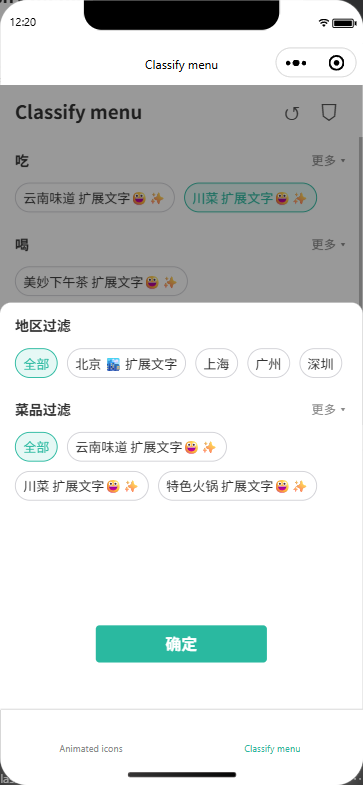
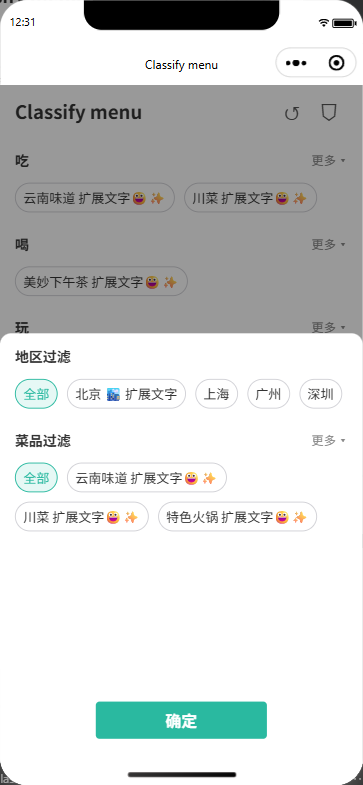
feat: CYLTabBarController's Mini Program tab bar as the example's shell
The Mini Program example now runs inside cyl-tab-bar of CYLTabBarController's
cyl-tabbar-miniprogram (pinned at 460ed89f, the React Native example's pin): a
custom tab bar with Tags and Classify and the raised Post button with its own
page. scripts/fetch-cyltabbar.js installs the component (git-ignored), CI runs it,
and a test reads the configuration through CYLTabBarController's own reader. The
filter sheet hides the bar (cyl_setTabBarHidden) so 确定 stays reachable.
Verified in WeChat DevTools with CYLTabBarController's AppID (local only).

Claude-Session: https://claude.ai/code/session_017y7XP1PdARBM5KQfkatJYT

diff --git a/CrossPlatform/wechat-miniprogram/scripts/fetch-cyltabbar.js b/CrossPlatform/wechat-miniprogram/scripts/fetch-cyltabbar.js
@@ -1,0 +1,97 @@
+#!/usr/bin/env node
+/**
+ * Installs CYLTabBarController's Mini Program tab bar (`cyl-tabbar-miniprogram`, CYLTabBarController's
+ * `CrossPlatform/wechat-miniprogram-cyltabbar`, not on npm) for the example's custom tab bar, as the React Native
+ * example installs `react-native-cyltabbar` (`react-native/react-native-cyl-tag-list/scripts/fetch-cyltabbar.sh`):
+ *
+ *   1. checks out CYLTabBarController at COMMIT into .deps/CYLTabBarController (git-ignored), only the component's folder;
+ *   2. copies the package's mini program folder (its "miniprogram" field: src/) to
+ *      miniprogram/cyl_components/cyl-tabbar-miniprogram/ (git-ignored), which custom-tab-bar/index.json names.
+ *
+ * The component is copied outside miniprogram_npm because WeChat DevTools' "Build npm" rewrites that folder.
+ *
+ *   node scripts/fetch-cyltabbar.js           install
+ *   node scripts/fetch-cyltabbar.js --check   exit 1 when the installed copy differs from the pinned commit
+ */
+const { execFileSync } = require('child_process');
+const fs = require('fs');
+const path = require('path');
+
+// CYL_TAB_BAR: the same commit as the React Native example (fetch-cyltabbar.sh, example/ios/Podfile).
+const COMMIT = '460ed89f192db37d5b347cf72b5ee63ecdc11854';
+const REPOSITORY = 'https://github.com/ChenYilong/CYLTabBarController.git';
+const PACKAGE = 'CrossPlatform/wechat-miniprogram-cyltabbar';
+const ROOT = path.resolve(__dirname, '..');
+const CHECKOUT = path.join(ROOT, '.deps', 'CYLTabBarController');
+const TARGET = path.join(ROOT, 'miniprogram', 'cyl_components', 'cyl-tabbar-miniprogram');
+
+function git(...args) {
+  return execFileSync('git', ['-C', CHECKOUT, ...args], { encoding: 'utf8', stdio: ['ignore', 'pipe', 'inherit'] }).trim();
+}
+
+function checkout() {
+  if (!fs.existsSync(path.join(CHECKOUT, '.git'))) {
+    fs.mkdirSync(path.dirname(CHECKOUT), { recursive: true });
+    execFileSync('git', ['clone', '--filter=blob:none', '--no-checkout', '--sparse', REPOSITORY, CHECKOUT], { stdio: 'inherit' });
+  }
+  git('sparse-checkout', 'set', PACKAGE);
+  try {
+    git('cat-file', '-e', `${COMMIT}^{commit}`);
+  } catch (error) {
+    git('fetch', '-q', 'origin');
+  }
+  git('-c', 'advice.detachedHead=false', 'checkout', '-q', COMMIT);
+}
+
+function files(folder, prefix = '') {
+  return fs.readdirSync(path.join(folder, prefix), { withFileTypes: true })
+    .filter((entry) => !entry.name.startsWith('._') && entry.name !== '.DS_Store')
+    .flatMap((entry) => {
+      const relative = path.join(prefix, entry.name);
+      return entry.isDirectory() ? files(folder, relative) : [relative];
+    })
+    .sort();
+}
+
+function sourceFolder() {
+  const packageFolder = path.join(CHECKOUT, PACKAGE);
+  const manifest = JSON.parse(fs.readFileSync(path.join(packageFolder, 'package.json'), 'utf8'));
+  return path.join(packageFolder, manifest.miniprogram || 'miniprogram_dist');
+}
+
+function differences(source) {
+  const expected = files(source);
+  const actual = fs.existsSync(TARGET) ? files(TARGET) : [];
+  const stale = expected.filter((file) => !actual.includes(file)
+    || !fs.readFileSync(path.join(source, file)).equals(fs.readFileSync(path.join(TARGET, file))));
+  const extra = actual.filter((file) => !expected.includes(file) && file !== 'COMMIT');
+  return stale.concat(extra);
+}
+
+function main() {
+  const check = process.argv.includes('--check');
+  if (check) {
+    if (!fs.existsSync(path.join(CHECKOUT, '.git')) || git('rev-parse', 'HEAD') !== COMMIT) {
+      console.error(`cyl-tabbar-miniprogram is not checked out at ${COMMIT.slice(0, 8)}: run node scripts/fetch-cyltabbar.js`);
+      process.exit(1);
+    }
+    const stale = differences(sourceFolder());
+    if (stale.length) {
+      console.error(`Out of date: ${stale.join(', ')} (run node scripts/fetch-cyltabbar.js)`);
+      process.exit(1);
+    }
+    console.log(`OK: cyl-tabbar-miniprogram at ${COMMIT.slice(0, 8)}`);
+    return;
+  }
+  checkout();
+  const source = sourceFolder();
+  fs.rmSync(TARGET, { recursive: true, force: true });
+  files(source).forEach((file) => {
+    fs.mkdirSync(path.dirname(path.join(TARGET, file)), { recursive: true });
+    fs.copyFileSync(path.join(source, file), path.join(TARGET, file));
+  });
+  fs.writeFileSync(path.join(TARGET, 'COMMIT'), `${COMMIT}\n`);
+  console.log(`cyl-tabbar-miniprogram at ${git('rev-parse', '--short', 'HEAD')} -> ${path.relative(ROOT, TARGET)}`);
+}
+
+main();

diff --git a/CrossPlatform/wechat-miniprogram/test/tab-bar-configuration.test.js b/CrossPlatform/wechat-miniprogram/test/tab-bar-configuration.test.js
@@ -1,0 +1,45 @@
+// The example's tab bar configuration, read by CYLTabBarController's own configuration reader when it is installed
+// (node scripts/fetch-cyltabbar.js); the page mapping always (node --test).
+const test = require('node:test');
+const assert = require('node:assert/strict');
+const fs = require('fs');
+const path = require('path');
+const { CONFIGURATION, pagePath, identifierForRoute } = require('../miniprogram/custom-tab-bar/configuration.js');
+const app = require('../miniprogram/app.json');
+
+test('every tab and the plus button have a page in the tab bar list of app.json', () => {
+  const list = app.tabBar.list.map((entry) => `/${entry.pagePath}`);
+  const identifiers = CONFIGURATION.CYLTabBarControllerTabBarItemsAttributes.map((item) => item.CYLTabBarItemIdentifier)
+    .concat(CONFIGURATION.CYLTabBarControllerPlusButton.CYLTabBarItemPageIdentifier);
+  assert.deepEqual(identifiers, ['tags', 'classify', 'post']);
+  identifiers.forEach((identifier) => assert.ok(list.includes(pagePath(identifier)), identifier));
+  assert.equal(app.tabBar.custom, true);
+});
+
+test('a page route maps back to its tab', () => {
+  assert.equal(identifierForRoute('pages/classify/classify'), 'classify');
+  assert.equal(identifierForRoute('/pages/post/post'), 'post');
+  assert.equal(identifierForRoute('other'), '');
+});
+
+test('every image of the configuration is in the package', () => {
+  const attributes = CONFIGURATION.CYLTabBarControllerTabBarItemsAttributes.concat(CONFIGURATION.CYLTabBarControllerPlusButton);
+  attributes.forEach((item) => [item.CYLTabBarItemImage, item.CYLTabBarItemSelectedImage].forEach((image) => {
+    assert.ok(fs.existsSync(path.join(__dirname, '..', 'miniprogram', 'images', image)), image);
+  }));
+});
+
+const reader = path.join(__dirname, '..', 'miniprogram', 'cyl_components', 'cyl-tabbar-miniprogram', 'cyl-tab-bar',
+  'cyl_configuration.js');
+
+test('CYLTabBarController\'s reader shows Tags, the raised Post button, then Classify', { skip: !fs.existsSync(reader) && 'run node scripts/fetch-cyltabbar.js' }, () => {
+  const cyl = require(reader);
+  const read = cyl.cylReadConfiguration || cyl.cylTabBarModel || cyl.cylModel;
+  assert.equal(typeof read, 'function', `exports: ${Object.keys(cyl).join(', ')}`);
+  const model = read(CONFIGURATION, { imageBasePath: '/images' });
+  assert.deepEqual(model.items.map((item) => item.identifier), ['tags', 'classify']);
+  assert.equal(model.items[0].image, '/images/tab/tag.png');
+  assert.ok(model.plusButton, 'plus button');
+  assert.equal(model.plusButton.identifier, 'post');
+  assert.equal(model.plusButton.hasPage, true);
+});

diff --git a/CrossPlatform/wechat-miniprogram/miniprogram/custom-tab-bar/configuration.js b/CrossPlatform/wechat-miniprogram/miniprogram/custom-tab-bar/configuration.js
@@ -1,0 +1,57 @@
+/**
+ * The tab bar of the example, in CYLTabBarController's configuration keys (its docs/Configuration-File.md): the tabs
+ * Tags and Classify and the raised Post button with a page of its own between them, as in the React Native example
+ * (`example/src/App.tsx`: CYLTabBarController's CYLPlusButtonSubclass, centerYOffset -14). Images are relative to
+ * /images (the `image-base-path` of custom-tab-bar/index.wxml); a Mini Program has no SF Symbols.
+ */
+const ITEMS = [
+  {
+    CYLTabBarItemTitle: 'Tags',
+    CYLTabBarItemImage: 'tab/tag.png',
+    CYLTabBarItemSelectedImage: 'tab/tag_selected.png',
+    CYLTabBarItemIdentifier: 'tags',
+  },
+  {
+    CYLTabBarItemTitle: 'Classify',
+    CYLTabBarItemImage: 'tab/grid.png',
+    CYLTabBarItemSelectedImage: 'tab/grid_selected.png',
+    CYLTabBarItemIdentifier: 'classify',
+  },
+];
+
+const PLUS_BUTTON = {
+  CYLTabBarItemTitle: 'Post',
+  CYLTabBarItemImage: 'tab/post_normal.png',
+  CYLTabBarItemSelectedImage: 'tab/post_highlight.png',
+  CYLTabBarItemIdentifier: 'post',
+  CYLTabBarItemPageIdentifier: 'post',
+  CYLPlusButtonIndexInTabBar: 1,
+  CYLPlusButtonSize: '{55, 80}',
+  CYLPlusButtonImageSize: '{55, 55}',
+  CYLPlusButtonCenterYOffset: -14,
+  CYLPlusButtonAlignsTitle: true,
+  CYLPlusButtonShowsSelection: true,
+};
+
+const CONFIGURATION = {
+  CYLTabBarControllerContext: 'CYLTagListMiniProgram',
+  CYLTabBarControllerThemeIdentifier: 'light',
+  CYLTabBarControllerThemes: {
+    light: { CYLTabBarItemSelectedTitleColor: '#2AB9A0', CYLTabBarItemTitleColor: '#8E8E93' },
+  },
+  CYLTabBarControllerTabBarItemsAttributes: ITEMS,
+  CYLTabBarControllerPlusButton: PLUS_BUTTON,
+};
+
+/** The page of a tab or of the plus button: pages/<identifier>/<identifier>. */
+function pagePath(identifier) {
+  return `/pages/${identifier}/${identifier}`;
+}
+
+/** The identifier of a page route ("pages/classify/classify" -> "classify"). */
+function identifierForRoute(route) {
+  const match = /^\/?pages\/([^/]+)\//.exec(route || '');
+  return match ? match[1] : '';
+}
+
+module.exports = { CONFIGURATION, pagePath, identifierForRoute };

diff --git a/CrossPlatform/wechat-miniprogram/miniprogram/custom-tab-bar/index.js b/CrossPlatform/wechat-miniprogram/miniprogram/custom-tab-bar/index.js
@@ -1,0 +1,33 @@
+/**
+ * The example's custom tab bar (app.json "tabBar": {"custom": true}): CYLTabBarController's `cyl-tab-bar` component
+ * (installed by scripts/fetch-cyltabbar.js), as the iOS, Flutter and React Native examples use CYLTabBarController as
+ * their shell. It switches pages on `select` (the plus button has a page, so it sends `select` too); each tab page
+ * calls `syncWithRoute` in onShow so the selection follows the page.
+ */
+const { CONFIGURATION, pagePath, identifierForRoute } = require('./configuration.js');
+
+Component({
+  data: {
+    configuration: CONFIGURATION,
+    selectedIdentifier: 'tags',
+  },
+
+  methods: {
+    onSelect(event) {
+      const { pageIdentifier, identifier } = event.detail;
+      wx.switchTab({ url: pagePath(pageIdentifier || identifier) });
+    },
+
+    /** Hides or shows the bar (CYLTabBarController's `cyl_setTabBarHidden`), e.g. under a sheet. */
+    setHidden(hidden) {
+      const tabBar = this.selectComponent('#cyl-tab-bar');
+      if (tabBar) tabBar.cyl_setTabBarHidden(Boolean(hidden));
+    },
+
+    /** Selects the tab of the page shown (called from the pages' onShow). */
+    syncWithRoute(route) {
+      const identifier = identifierForRoute(route);
+      if (identifier && identifier !== this.data.selectedIdentifier) this.setData({ selectedIdentifier: identifier });
+    },
+  },
+});

diff --git a/CrossPlatform/wechat-miniprogram/miniprogram/pages/classify/classify.js b/CrossPlatform/wechat-miniprogram/miniprogram/pages/classify/classify.js
@@ -20,6 +20,11 @@ Page({
     filtered: false,
   },
 
+  onShow() {
+    // The custom tab bar (CYLTabBarController's cyl-tab-bar) selects the tab of this page.
+    if (typeof this.getTabBar === 'function' && this.getTabBar()) this.getTabBar().syncWithRoute(this.route);
+  },
+
   onLoad(options) {
     this.categories = db.categories();
     this.tags = db.tags();
@@ -61,10 +66,17 @@ Page({
       filterVisible: true,
       filterConfiguration: state.filterConfiguration(this.tags, this.filterItems),
     });
+    this.setTabBarHidden(true);
   },
 
   closeFilter() {
     this.setData({ filterVisible: false });
+    this.setTabBarHidden(false);
+  },
+
+  /** The sheet covers the tab bar's area, so the bar hides while it is open (its 确定 stays reachable). */
+  setTabBarHidden(hidden) {
+    if (typeof this.getTabBar === 'function' && this.getTabBar()) this.getTabBar().setHidden(hidden);
   },
 
   onFilterChange(event) {
@@ -76,6 +88,7 @@ Page({
     this.filterItems = this.pendingFilter;
     selections.save(selections.FILTER_SCENARIO, this.filterItems);
     this.setData({ filterVisible: false });
+    this.setTabBarHidden(false);
     this.runQuery();
   },
 

diff --git a/CrossPlatform/wechat-miniprogram/miniprogram/pages/tags/tags.js b/CrossPlatform/wechat-miniprogram/miniprogram/pages/tags/tags.js
@@ -64,6 +64,11 @@ Page({
     lastTap: '',
   },
 
+  onShow() {
+    // The custom tab bar (CYLTabBarController's cyl-tab-bar) selects the tab of this page.
+    if (typeof this.getTabBar === 'function' && this.getTabBar()) this.getTabBar().syncWithRoute(this.route);
+  },
+
   onLoad(options) {
     // `?autoplay=1` (a compile condition) applies 2x, loop and Play all after a second, for screenshots.
     if (options && options.autoplay) {

diff --git a/CrossPlatform/wechat-miniprogram/miniprogram/pages/post/post.js b/CrossPlatform/wechat-miniprogram/miniprogram/pages/post/post.js
@@ -1,0 +1,6 @@
+// The raised Post button's own page, as in the React Native and CYLTabBarController examples.
+Page({
+  onShow() {
+    if (typeof this.getTabBar === 'function' && this.getTabBar()) this.getTabBar().syncWithRoute(this.route);
+  },
+});

diff --git a/docs/cross-platform.md b/docs/cross-platform.md
@@ -338,8 +338,26 @@ Program) show the same screens with the same data and look the same as iOS, whic
 
 - **Still TODO:** (1) DONE above; a real-device preview (`auto_preview`) is not done yet; (2) measure the tag cells against iOS
   (left spacing, section "the tag cells look the same as iOS"); (3) a real AppID for phone preview (the project uses
-  `touristappid`); (4) the shell: CYLTabBarController has no Mini Program component yet, so the example uses the
-  native `tabBar`.
+  `touristappid`); (4) the shell: DONE (below).
+- **Shell DONE (2026-11-15): CYLTabBarController's Mini Program tab bar.** The example's shell is `cyl-tab-bar` of
+  CYLTabBarController's `cyl-tabbar-miniprogram` (`CrossPlatform/wechat-miniprogram-cyltabbar`, pinned at `460ed89f`, the
+  React Native example's pin), as the iOS, Flutter and React Native examples use CYLTabBarController: a custom tab bar
+  (`app.json` `"custom": true`, `miniprogram/custom-tab-bar/`) with the tabs Tags and Classify and the raised Post button
+  with a page of its own between them (`CYLPlusButtonCenterYOffset` -14, the React Native example's `post_normal` /
+  `post_highlight` images; drawn PNG tab icons, as a Mini Program has no SF Symbols). The package is not on npm, so
+  `node scripts/fetch-cyltabbar.js` checks CYLTabBarController out into `.deps/` (sparse, git-ignored) and copies its `src/`
+  to `miniprogram/cyl_components/` (git-ignored; outside `miniprogram_npm`, which Build npm rewrites); `--check` keeps it
+  at the pin, and CI runs both. The filter sheet hides the bar while it is open (`cyl_setTabBarHidden`), which otherwise
+  covered 确定. The example uses CYLTabBarController's AppID `wx5e29c9d33906f074` (技术清谈), set in the git-ignored
+  `project.private.config.json`. Test: `tab-bar-configuration.test.js` reads the example's configuration through
+  CYLTabBarController's own reader (Tags, Classify, the Post button with a page); `npm test`: 21 tests pass. In WeChat
+  DevTools: `switchTab` to each page selects its tab (`selectedIdentifier` tags / classify / post), the tab bar's
+  `select` event switches pages, the sheet opens and confirms with real taps and no console errors.
+
+  <img src="assets/miniprogram-cyltabbar-tags.png" width="240" alt="Mini Program: Tags tab in CYLTabBarController's tab bar with the raised Post button">
+  <img src="assets/miniprogram-cyltabbar-post.png" width="240" alt="Mini Program: the Post button's own page, Post selected">
+  <img src="assets/miniprogram-cyltabbar-classify.png" width="240" alt="Mini Program: Classify tab selected">
+
 - **Prompt (verbatim):**
 
   > 修复 Class 文件夹下资源文件名太长 导致 git 相关操作失败的问题。 资源文件 关键词搜 leftBarButton continue
@@ -348,3 +366,4 @@ Program) show the same screens with the same data and look the same as iOS, whic
   English: fix the git failures caused by the over-long resource file names under `Class` (search "leftBarButton");
   then, on the new branch, start the WeChat Mini Program development from whatever the docs say about it, in the
   cross-platform folder (create it when missing), using the WeChat DevTools skill.
+  Then (shell): "running on the CYLTabBarController AppID wx5e29c9d33906f074 continue".

diff --git a/CrossPlatform/wechat-miniprogram/README.md b/CrossPlatform/wechat-miniprogram/README.md
@@ -1,7 +1,9 @@
 # WeChat Mini Program example
 
 The Mini Program example of CollectionViewClassifyMenu: the same screens and data as the iOS, Android and Flutter
-examples (`docs/cross-platform.md`), with iOS as the reference.
+examples (`docs/cross-platform.md`), with iOS as the reference. Its shell is CYLTabBarController's Mini Program
+tab bar (`cyl-tab-bar` of `cyl-tabbar-miniprogram`): the tabs Tags and Classify and the raised Post button with a page of
+its own, as the iOS, Flutter and React Native examples use CYLTabBarController.
 
 | Tab | What it shows |
 | --- | --- |
@@ -14,9 +16,12 @@ examples (`docs/cross-platform.md`), with iOS as the reference.
 wechat-miniprogram/
 ├── project.config.json          appid "touristappid" (tourist mode); set your own AppID to preview on a phone
 ├── package.json                 lottie-miniprogram; `npm test` runs the unit tests
+├── scripts/fetch-cyltabbar.js   installs CYLTabBarController's cyl-tabbar-miniprogram at the pinned commit (git-ignored)
 ├── test/                        node --test: the model, the statement, the saved selections
 └── miniprogram/
-    ├── app.json                 two tabs (bottom tab bar)
+    ├── app.json                 custom tab bar: Tags, Post (raised plus button), Classify
+    ├── custom-tab-bar/          cyl-tab-bar with the example's configuration (configuration.js)
+    ├── images/tab/              tab icons and the Post button images
     ├── components/
     │   ├── cyl-tag-list/        the port of the core's CYLTagListView (model.js has no wx calls)
     │   └── cyl-lottie-icon/     one Lottie icon on a 2d canvas, with speed / loops / play()
@@ -45,7 +50,8 @@ wechat-miniprogram/
 
 ## Run
 
-1. `npm install` in this folder. WeChat DevTools rejects `touristappid`: put your AppID in a git-ignored
+1. `npm install` and `node scripts/fetch-cyltabbar.js` in this folder (the second checks CYLTabBarController out at
+   the pinned commit into `.deps/` and copies its tab bar to `miniprogram/cyl_components/`). WeChat DevTools rejects `touristappid`: put an AppID (CYLTabBarController's examples use `wx5e29c9d33906f074`) in a git-ignored
    `project.private.config.json` (`{"appid": "wx…"}`).
 2. Open this folder in WeChat DevTools (or `wechatide -c <client> project_import --project <this folder>`).
 3. Tools → Build npm (构建 npm), or `wechatide -c <client> build_npm --project <this folder>`.
